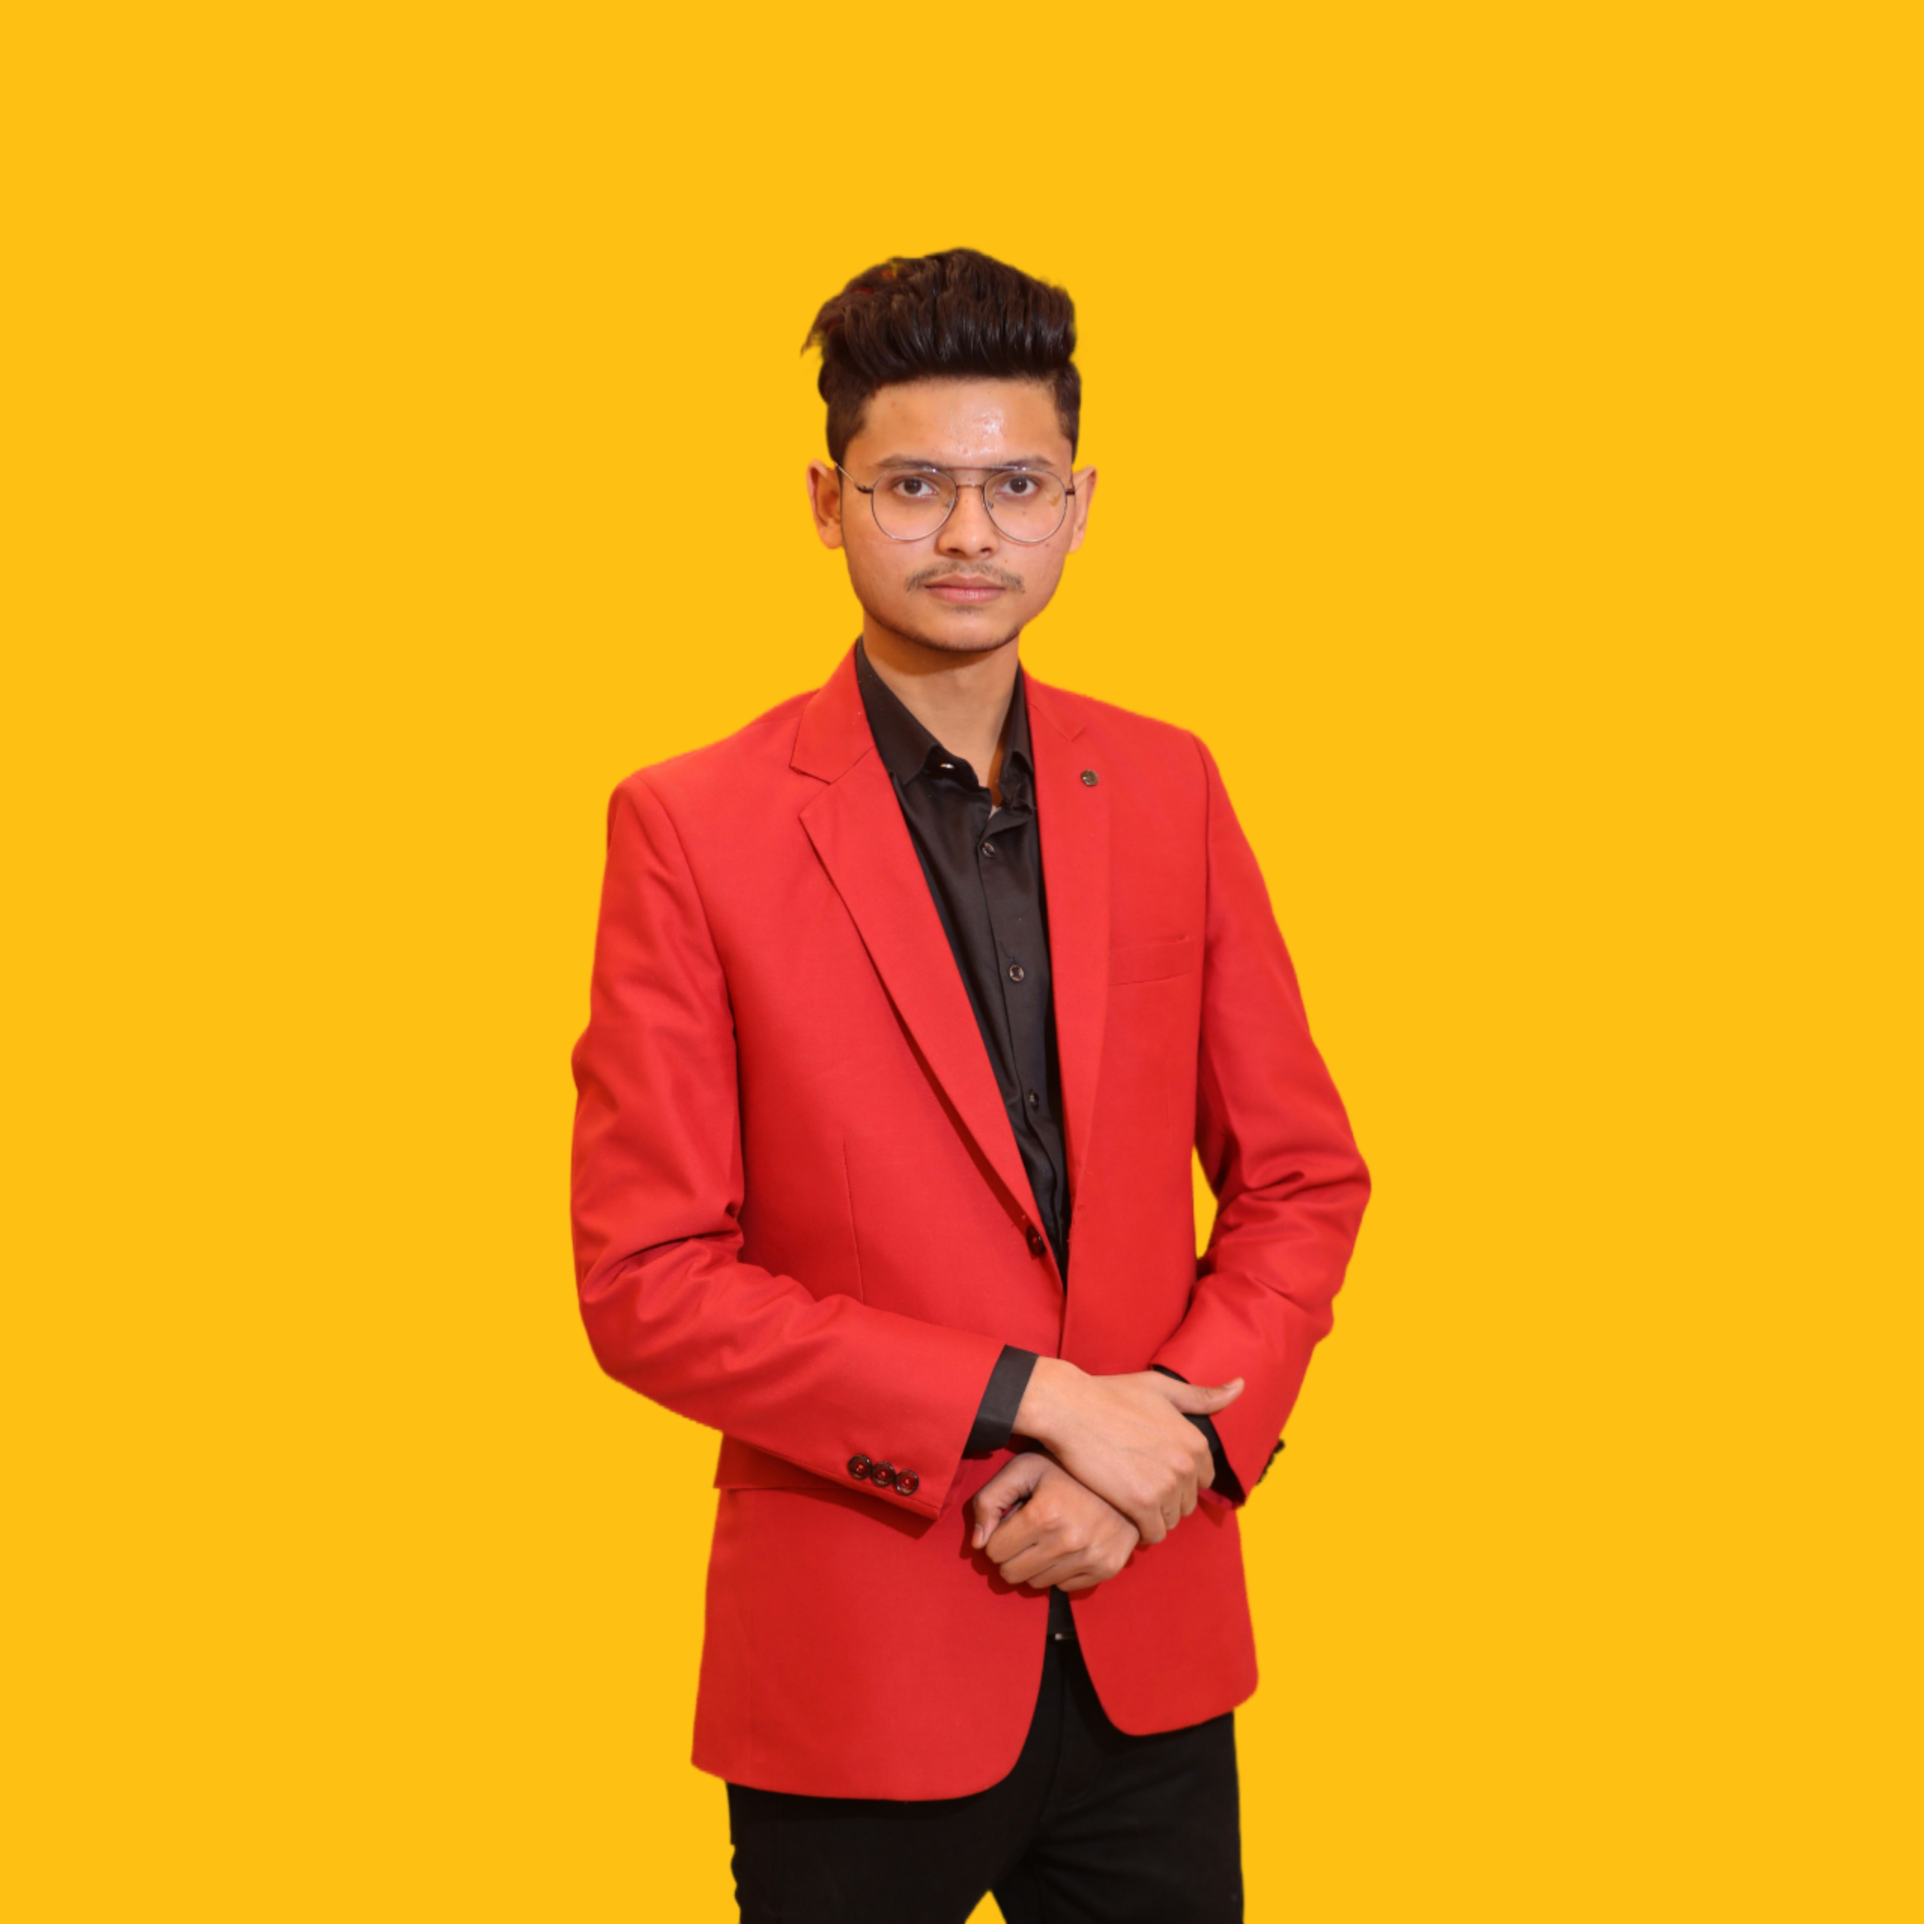
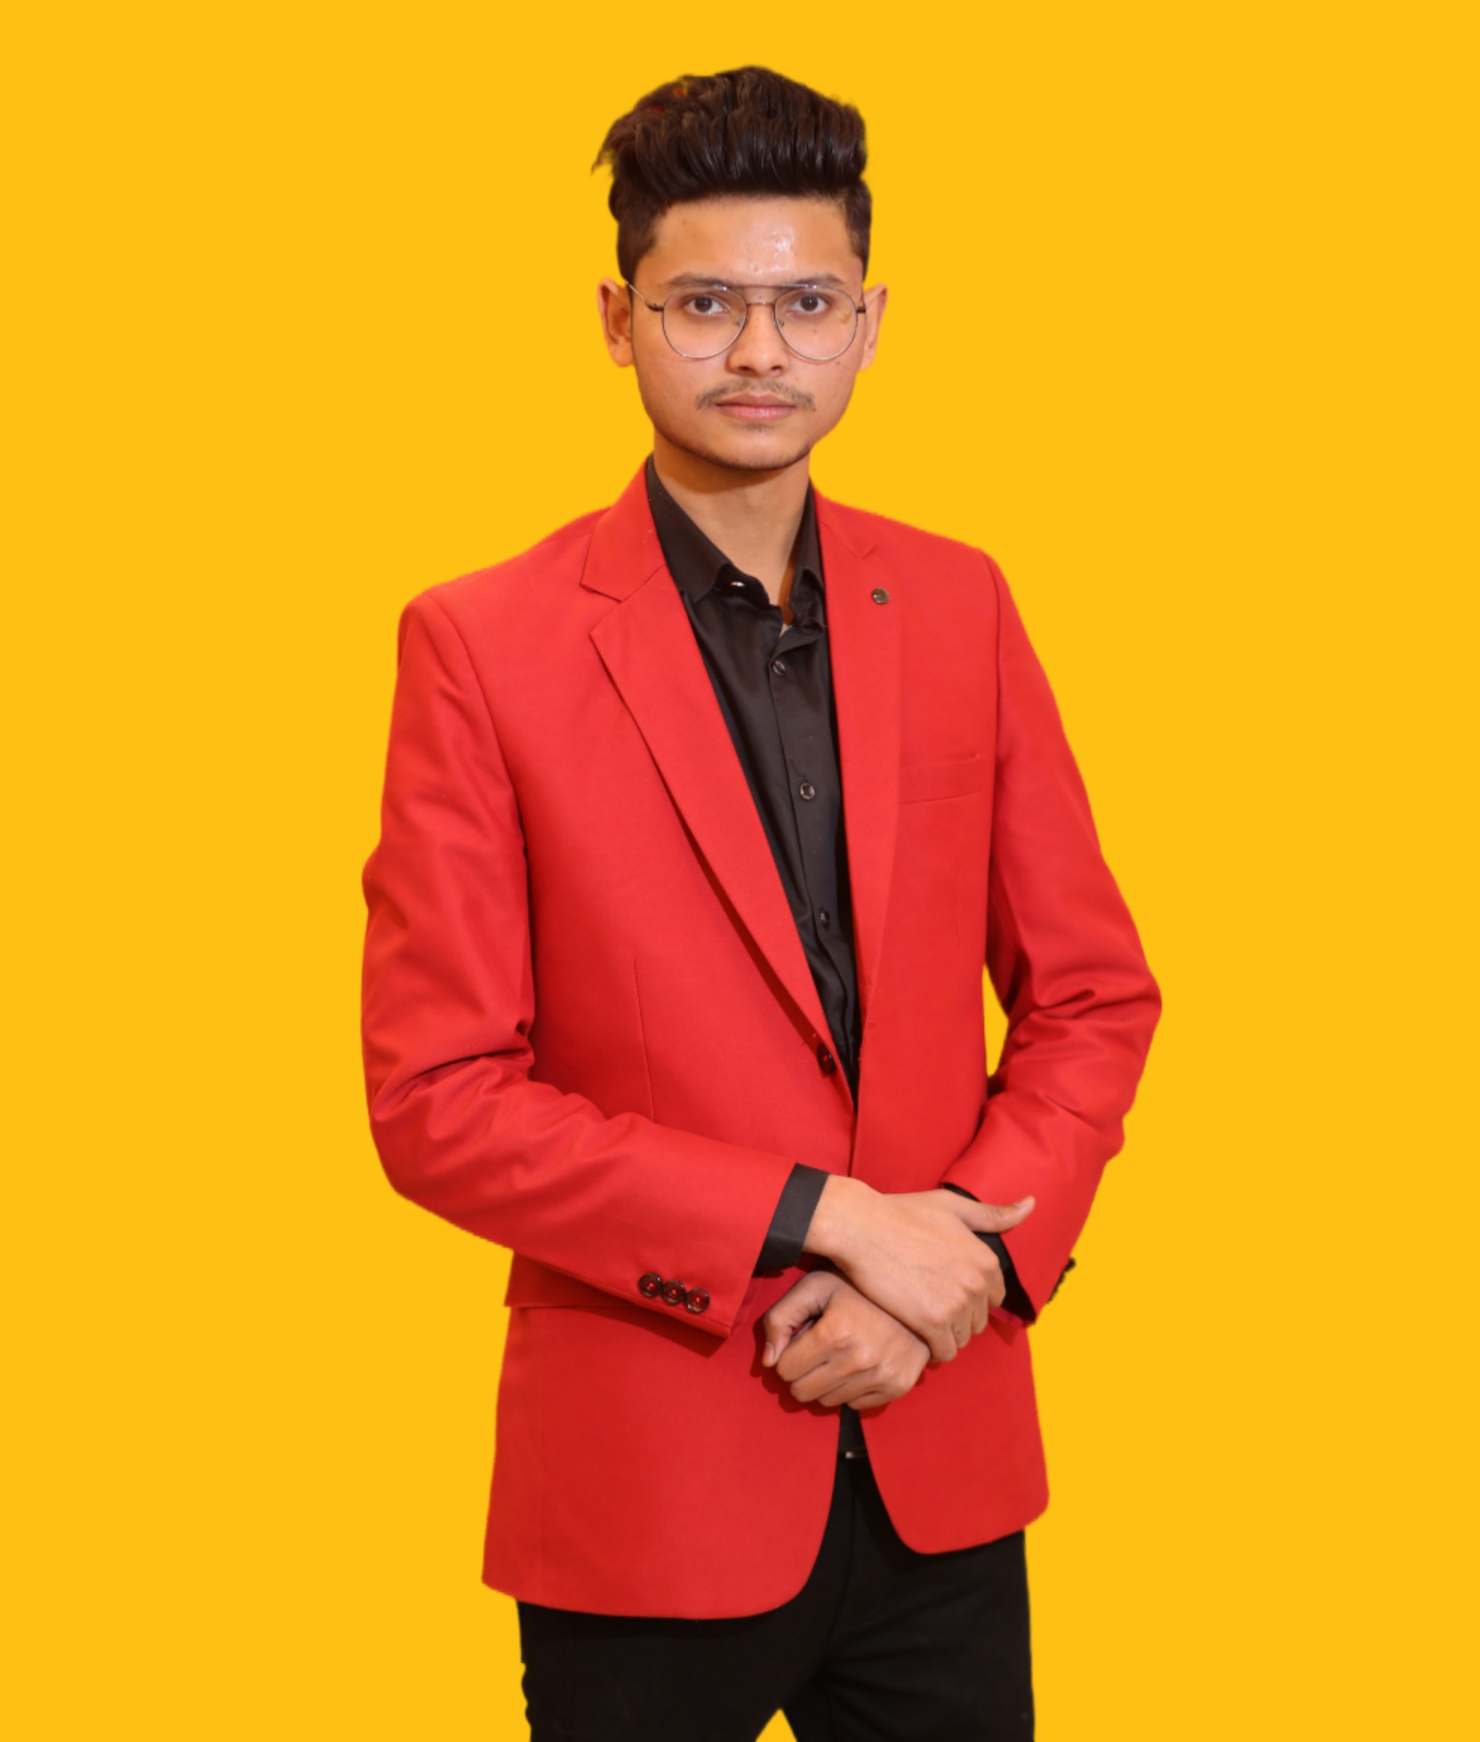
new commit

Changed region(s): [[0.2174, 0.0311, 0.8075, 1.0], [0.497, 0.9633, 0.5591, 1.0]]

diff --git a/src/index.css b/src/index.css
@@ -468,10 +468,14 @@ Header {
 }
 
 .img-container {
-  width: 200px;
-  height: 200px;
+  width: 235px;
+  height: 275px;
   background-color: gray;
   margin-inline: auto;
+}
+
+.photo {
+  width: 100%;
 }
 
 .question {
